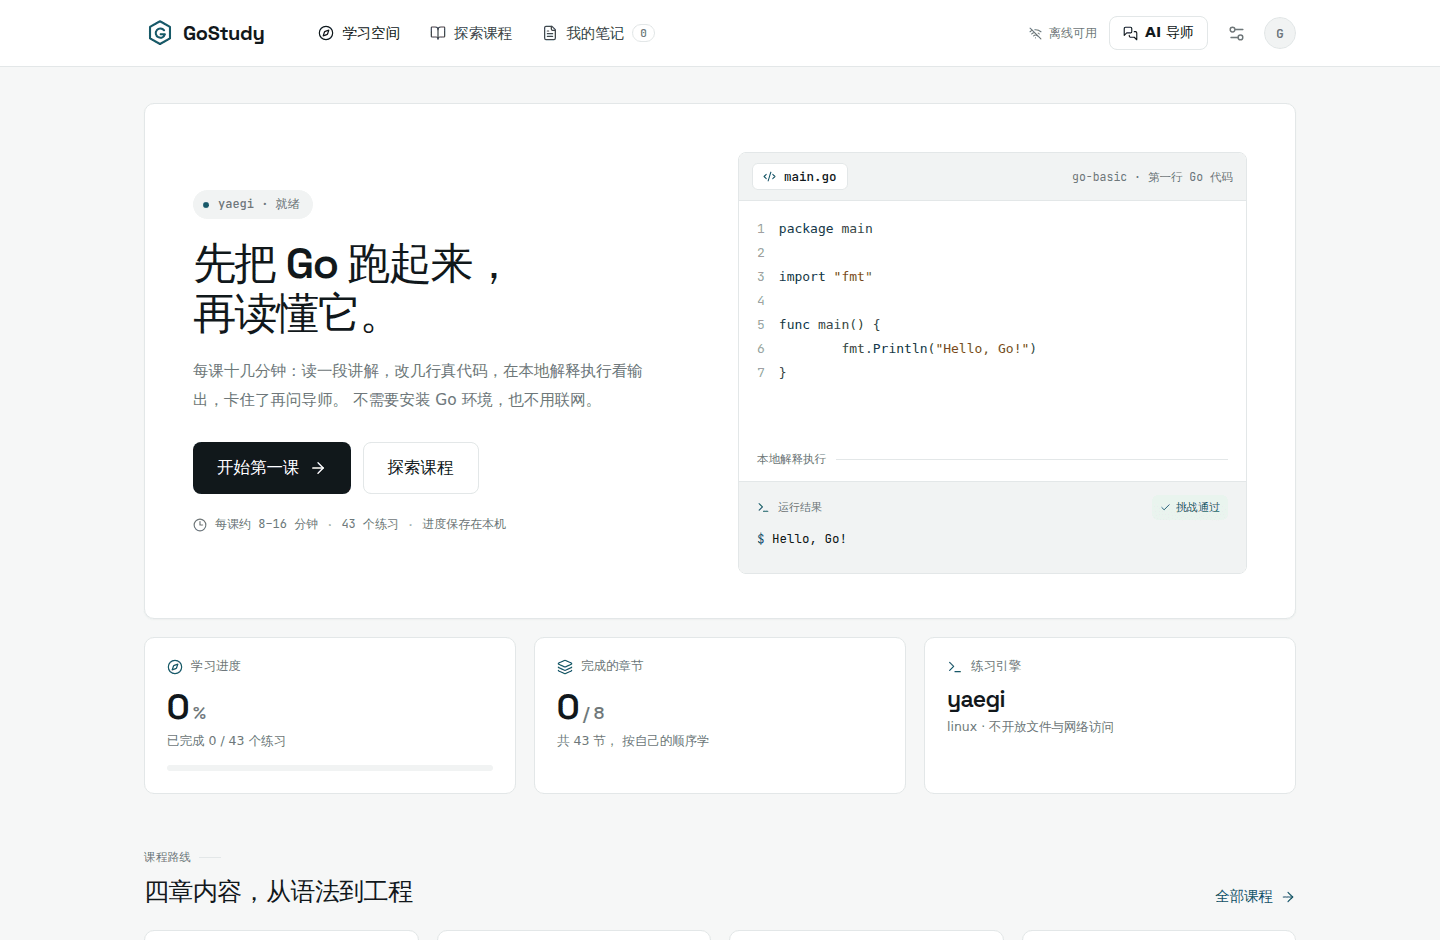
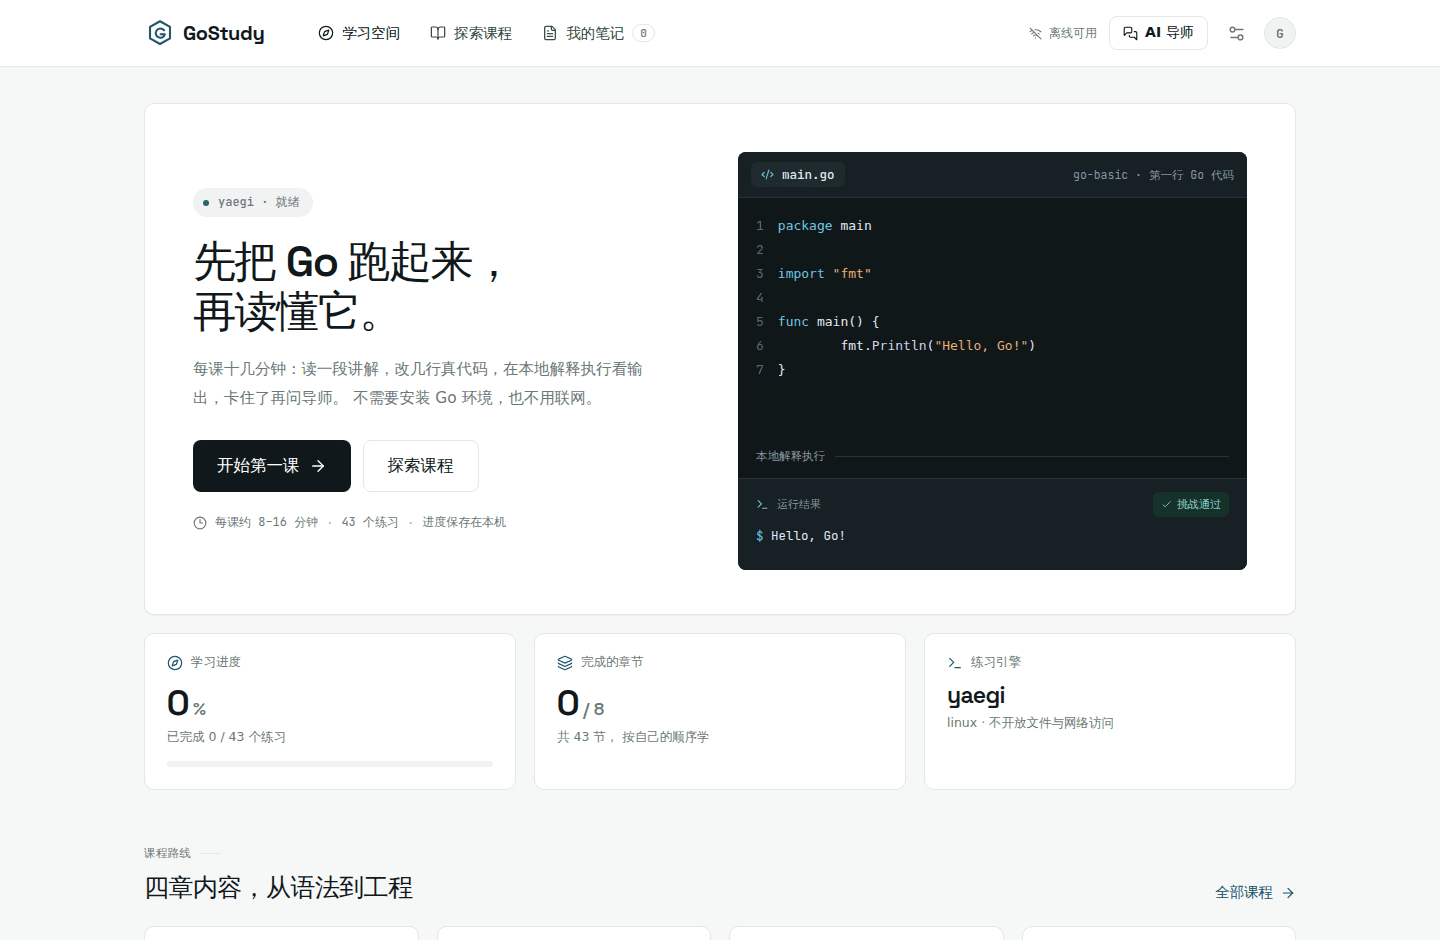
docs(应用说明): 同步新界面截图与动效规范
- 六张截图按原尺寸重新生成并压缩，总计 296KB（上一版 332KB），
  其中课程页截图改为展示逐行对勾的运行结果
- 视觉规范段落补充"代码与终端是唯一深色表面"及色值
- 新增动效三条约定（连续性 / 过程感 / 物理感）与所用平台能力说明
- 界面验收记录更新为本轮实测值

diff --git a/app/README.md b/app/README.md
@@ -47,9 +47,17 @@ flowchart LR
     G --> B
 ```
 
-界面采用近中性底色 `#F6F7F7`、白色卡片、墨黑标题 `#11181B` 与深青主色 `#0F5666`；卡片之间靠 1px 描边分层而不是投影，主按钮为近黑实色，彩色只出现在进度、链接、聚焦环与语义状态（通过 / 报错 / 提示）上。视觉方向参考 [Exercism](https://exercism.org/zh-CN) 的课程与练习页面：顶部导航、居中内容列、卡片式课程列表和克制的分隔线。**不使用渐变**，也不依赖在线字体或图片；Space Grotesk（标题与指标数字）与 JetBrains Mono（代码与等宽标签）的拉丁子集随应用本地打包（SIL OFL 1.1，许可证全文见 `frontend/public/fonts/`），中文由系统字体渲染。桌面端为顶部导航加双栏练习，窄屏端导航折行、练习纵向排列。代码编辑器采用 CodeMirror，支持 Go 语法高亮、缩进和行号，语法着色与应用同一套色值（见 `frontend/src/editor.ts`）。
+界面采用近中性底色 `#F6F7F7`、白色卡片、墨黑标题 `#11181B` 与深青主色 `#0F5666`；卡片之间靠 1px 描边分层而不是投影，主按钮为近黑实色，彩色只出现在进度、链接、聚焦环与语义状态（通过 / 报错 / 提示）上。**代码与终端是唯一的深色表面**：编辑器、控制台和首页演示台共用一套墨色（`#101719` 系）与语法色值，让「能跑的代码」在浅色界面里成为视觉锚点，编辑器工具条上的运行按钮则反相为浅色。视觉方向参考 [Exercism](https://exercism.org/zh-CN) 的课程与练习页面：顶部导航、居中内容列、卡片式课程列表和克制的分隔线。**不使用渐变**，也不依赖在线字体或图片；Space Grotesk（标题与指标数字）与 JetBrains Mono（代码与等宽标签）的拉丁子集随应用本地打包（SIL OFL 1.1，许可证全文见 `frontend/public/fonts/`），中文由系统字体渲染。桌面端为顶部导航加双栏练习，窄屏端导航折行、练习纵向排列。代码编辑器采用 CodeMirror，支持 Go 语法高亮、缩进和行号，语法着色与应用同一套色值（见 `frontend/src/editor.ts`）。
 
 交互层由 Radix UI 的无障碍组件原语（标签页、对话框、开关、滑杆、提示、进度条、通知）与 Motion 动效引擎构成；动效节奏集中在 `frontend/src/motion.ts`，系统「减少动效」或设置里的开关生效时整体关闭，此时界面直接呈现最终状态。首页首屏不加装饰性插画，而是循环演示一段真实课程代码从输入到运行通过的完整过程。
+
+动效遵循三条约定，都写在 `frontend/src/styles.css` 与 `motion.ts` 里：
+
+- **连续性**：首页课程卡点进课程页时，卡片与课程页标题区共享同一个 `view-transition-name`，由平台自带的 View Transitions 把"卡片长成页面"补成一帧动画；浏览器不支持（或用户要求减少动效）时退化为直接切换，不做阻塞。
+- **过程感**：「运行代码」不是转圈等待，而是拆成编译 → 执行 → 比对期望输出 → 通过四个可见阶段（仅在允许动效时展开）；通过后控制台逐行列出输出，每行一个对勾表示与期望输出对得上。
+- **物理感**：抽屉从用户点击的那颗按钮位置展开（`transform-origin` 取点击坐标），头部可下拉关闭，方向与手势一致；所有按钮与列表项按压时轻微缩进（用独立的 `scale` 属性，不与位移的 `transform` 互相覆盖）。
+
+除库之外还用到几项平台自带能力，因此没有增加任何依赖：顶栏底边分隔线随滚动淡入用滚动驱动动画（`animation-timeline: scroll()`，跑在合成器线程）；中文排版用 `text-autospace` 与 `text-spacing-trim` 处理中英混排空隙与标点收边；安卓端在运行通过与失败时用 `navigator.vibrate` 给出不同触觉反馈。
 
 ### 1.2 课程与 AI 导师
 
@@ -273,7 +281,7 @@ bash app/scripts/build-windows.sh
 
 本次依赖审计未完成：npm 官方源连接超时，镜像源的安全审计接口返回未实现。依赖安装和锁文件构建成功不能替代漏洞审计。
 
-界面验收使用无头 Chromium 完成：1440×940 与 390×844 两种视口下截取首页、课程目录、课程详情、动手挑战、AI 导师抽屉、笔记、设置页与手机端共八张截图，控制台无报错、无失败请求，两种视口都没有横向滚动；实测计算样式为页面底色 `rgb(246,247,247)`、标题 `rgb(17,24,27)`、主按钮实色 `rgb(17,24,27)`、标签页下划线 `rgb(15,86,102)`，卡片为 1px 描边且无投影，全部渐变用法为零；Space Grotesk 与 JetBrains Mono 加载成功且中文正常渲染。同时验证「减少动效」下界面直接呈现最终状态（无 `opacity: 0` 的隐藏元素）与滑杆/开关的可访问名可被读取。截图验收能证明布局与配色未崩坏，但不能替代真机上的字体、交互与性能体验。Windows 退出流程已在本机验证：调用退出接口后进程结束、端口释放、重复退出保持幂等。
+界面验收使用无头 Chromium 完成：1440×940 与 390×844 两种视口下截取首页、课程目录、课程详情、动手挑战、AI 导师抽屉、笔记、设置页与手机端共八张截图，控制台无报错、无失败请求，两种视口都没有横向滚动；实测计算样式为页面底色 `rgb(246,247,247)`、卡片纯白、代码区 `rgb(16,23,25)`、代码文字 `rgb(223,232,234)`、编辑器工具条运行按钮反相为 `rgb(223,232,234)`，卡片为 1px 描边且无投影，样式表内渐变规则计数为 0；Space Grotesk 与 JetBrains Mono 加载成功且中文正常渲染。动效逐项实测：共享元素转场确实调用了 `startViewTransition` 且转场后无残留的 `view-transition-name`；运行过程依次出现「正在编译…」「比对期望输出…」并最终得到「挑战通过 · 3 ms」与两行带对勾的输出；抽屉的 `transform-origin` 为点击位置、头部 `touch-action` 为 `none`；顶栏分隔线透明度随滚动由 0 变 1。「减少动效」下界面直接呈现最终状态（无 `opacity: 0` 的隐藏元素、无打字光标、无位移）。截图验收能证明布局与配色未崩坏，但不能替代真机上的字体、交互与性能体验。Windows 退出流程已在本机验证：调用退出接口后进程结束、端口释放、重复退出保持幂等。
 
 Android 构建环境与产物现状：本机已用官方源安装 SDK 35 / build-tools 35.0.0 / NDK 27.2.12479018，产出并签署了 release APK（约 65 MB，含 arm64-v8a、armeabi-v7a、x86、x86_64 四种 ABI）。校验结果：`apksigner verify` 通过（APK Signature Scheme v2 + v3，证书 CN=GoStudy，非 debug 证书）、`aapt2 dump badging` 显示 `versionName=0.3.1`、`minSdkVersion=26`、`targetSdkVersion=35`，且没有 `application-debuggable` 标记。**但还没有在真机上安装并跑完学习流程**，触摸交互、WebView 表现和安装兼容性都需要真机验收。
 
